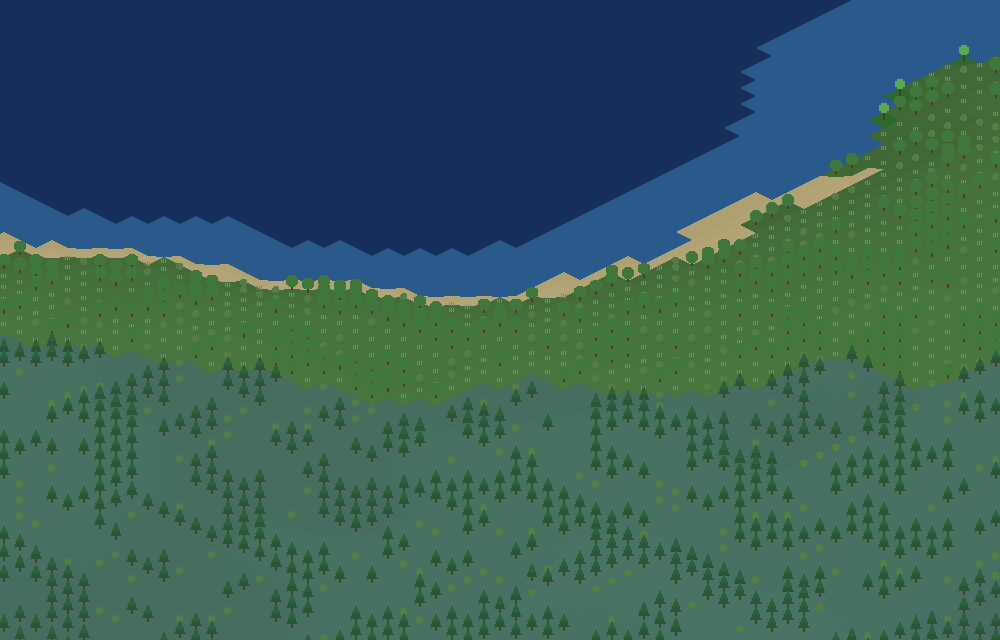
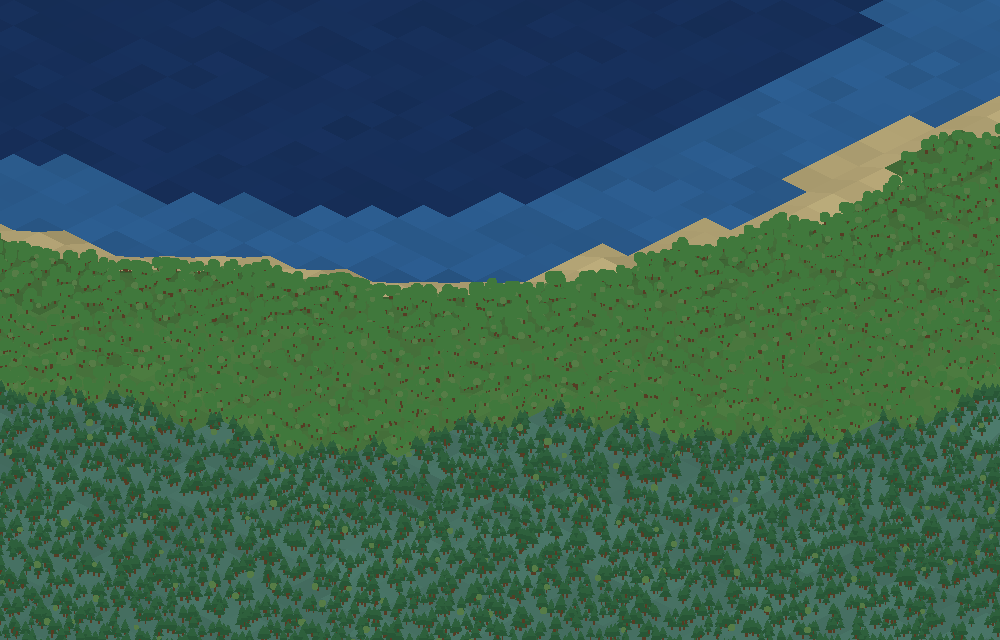
Bigger tiles and AoE2-style multi-tree scatter
- Doubled isometric tile size (64x32, height step 14).
- Vegetation is now scattered: each tile places up to ~12 individual plants at
  randomized, deterministic positions within its quad, count driven by biome and
  a new Tile.VegetationDensity field, so forests read as many trees rather than
  one sprite per tile. Deterministic per-tile XorShift RNG; plants level-of-detail
  to a dot when zoomed far out.
- Default camera zoom eased to 0.8 for the larger tiles.

Claude-Session: https://claude.ai/code/session_01TLhPVNgUgZYAKeC4oWsobL

diff --git a/src/Skippy.Core/Worlds/Rendering/WorldRenderer.cs b/src/Skippy.Core/Worlds/Rendering/WorldRenderer.cs
@@ -34,7 +34,16 @@ public sealed class WorldRenderer
     {
         public readonly Vector2 Pos;
         public readonly Vegetation Veg;
-        public VegItem(Vector2 pos, Vegetation veg) { Pos = pos; Veg = veg; }
+        public readonly float Scale;
+        public VegItem(Vector2 pos, Vegetation veg, float scale) { Pos = pos; Veg = veg; Scale = scale; }
+    }
+
+    /// <summary>Deterministic per-tile RNG for scattering plants (no heap allocation).</summary>
+    private struct XorShift
+    {
+        private uint _s;
+        public XorShift(uint seed) { _s = seed == 0 ? 1u : seed; }
+        public float Next() { _s ^= _s << 13; _s ^= _s >> 17; _s ^= _s << 5; return (_s & 0xFFFFFF) / 16777216f; }
     }
 
     public WorldRenderer(GraphicsDevice gd)
@@ -119,8 +128,7 @@ public sealed class WorldRenderer
                 PushTri(a, b, c, col);
                 PushTri(a, c, d, col);
 
-                if (tile.Vegetation != Vegetation.None)
-                    _veg.Add(new VegItem((a + b + c + d) * 0.25f, tile.Vegetation));
+                AppendScatter(tile, a, b, c, d, tx, ty);
             }
         }
 
@@ -143,9 +151,53 @@ public sealed class WorldRenderer
         // ---- vegetation pass (sprites) ----
         sb.Begin(SpriteSortMode.Deferred, BlendState.AlphaBlend, SamplerState.PointClamp);
         foreach (VegItem item in _veg)
-            DrawVegetation(sb, item.Pos, zoom, item.Veg);
+            DrawVegetation(sb, item.Pos, zoom * item.Scale, item.Veg);
         sb.End();
     }
+
+    /// <summary>
+    /// AoE2-style vegetation: a tile scatters many individual plants at randomized,
+    /// deterministic positions within its quad (dense forests, sparse savanna),
+    /// their count driven by biome and the tile's vegetation-density field.
+    /// </summary>
+    private void AppendScatter(in Tile tile, Vector2 a, Vector2 b, Vector2 c, Vector2 d, int tx, int ty)
+    {
+        var rng = new XorShift((uint)((tx * 73856093) ^ (ty * 19349663) ^ 0x9e37));
+        float dens = tile.VegetationDensity;
+
+        void Add(Vegetation kind, int n)
+        {
+            if (n > 12) n = 12;
+            for (int i = 0; i < n; i++)
+            {
+                float u = 0.14f + 0.72f * rng.Next();
+                float v = 0.12f + 0.76f * rng.Next();
+                float s = 0.8f + 0.5f * rng.Next();
+                _veg.Add(new VegItem(Bilerp(a, b, c, d, u, v), kind, s));
+            }
+        }
+
+        switch (tile.Biome)
+        {
+            case Biome.TemperateForest: Add(Vegetation.BroadleafTree, 5 + Ri(dens * 6)); Add(Vegetation.Bush, Ri(dens * 2)); break;
+            case Biome.Taiga: Add(Vegetation.PineTree, 5 + Ri(dens * 6)); if (rng.Next() > 0.7f) Add(Vegetation.Bush, 1); break;
+            case Biome.Jungle: Add(Vegetation.PalmTree, 6 + Ri(dens * 6)); Add(Vegetation.Bush, 1 + Ri(dens * 2)); break;
+            case Biome.Grassland:
+                if (dens > 0.5f) Add(Vegetation.BroadleafTree, 1 + Ri((dens - 0.5f) * 6));
+                if (dens > 0.35f && rng.Next() > 0.5f) Add(Vegetation.Bush, 1);
+                break;
+            case Biome.Savanna: if (dens > 0.55f) Add(Vegetation.BroadleafTree, dens > 0.8f ? 2 : 1); break;
+            case Biome.Swamp: Add(Vegetation.Bush, 1 + Ri(dens * 3)); if (dens > 0.6f) Add(Vegetation.BroadleafTree, 1); break;
+            case Biome.Tundra: if (dens > 0.6f || rng.Next() > 0.75f) Add(Vegetation.Bush, 1); break;
+            case Biome.Desert: if (dens > 0.7f) Add(Vegetation.Cactus, dens > 0.88f ? 2 : 1); break;
+            case Biome.Rock: if (rng.Next() > 0.6f) Add(Vegetation.Rock, rng.Next() > 0.6f ? 2 : 1); break;
+        }
+    }
+
+    private static int Ri(float x) => (int)MathF.Round(x);
+
+    private static Vector2 Bilerp(Vector2 a, Vector2 b, Vector2 c, Vector2 d, float u, float v)
+        => Vector2.Lerp(Vector2.Lerp(a, b, u), Vector2.Lerp(d, c, u), v);
 
     private void PushTri(Vector2 p0, Vector2 p1, Vector2 p2, Color color)
     {
@@ -158,6 +210,22 @@ public sealed class WorldRenderer
 
     private void DrawVegetation(SpriteBatch sb, Vector2 at, float zoom, Vegetation veg)
     {
+        // Far zoom: a cheap dot keeps big, plant-dense views fast.
+        if (zoom < 0.35f)
+        {
+            Color lc = veg switch
+            {
+                Vegetation.PineTree => new Color(46, 96, 60),
+                Vegetation.PalmTree => new Color(90, 168, 84),
+                Vegetation.BroadleafTree or Vegetation.Bush => new Color(64, 120, 60),
+                Vegetation.Cactus => new Color(80, 124, 80),
+                Vegetation.Rock => new Color(120, 116, 112),
+                _ => new Color(96, 140, 74),
+            };
+            Disc(sb, at - new Vector2(0f, 2f * zoom), MathF.Max(1.3f, 2.4f * zoom), lc);
+            return;
+        }
+
         switch (veg)
         {
             case Vegetation.GrassTuft:

diff --git a/src/Skippy.Core/Worlds/Generation/DefaultWorldGenerator.cs b/src/Skippy.Core/Worlds/Generation/DefaultWorldGenerator.cs
@@ -65,6 +65,8 @@ public sealed class DefaultWorldGenerator : IWorldGenerator
                     Moisture = moisture,
                     Level = QuantizeLevel(h),
                     Biome = BiomeClassifier.Classify(h, temperature, moisture),
+                    // Low-frequency clumping field: how densely this tile is planted.
+                    VegetationDensity = _vegetation.Sample(wx * 0.06f, wy * 0.06f) * 0.5f + 0.5f,
                 };
                 tile.Vegetation = VegetationPicker.Pick(tile, _vegetation, wx, wy);
 

diff --git a/src/Skippy.Core/Worlds/Rendering/Iso.cs b/src/Skippy.Core/Worlds/Rendering/Iso.cs
@@ -8,9 +8,9 @@ namespace Skippy.Core.Worlds.Rendering;
 /// </summary>
 public static class Iso
 {
-    public const int TileWidth = 32;
-    public const int TileHeight = 16;
-    public const int HeightStep = 7;
+    public const int TileWidth = 64;
+    public const int TileHeight = 32;
+    public const int HeightStep = 14;
 
     /// <summary>World tile (+ elevation level) → iso-space pixel (center of the diamond top).</summary>
     public static Vector2 TileToIso(float tileX, float tileY, float level) => new(

diff --git a/src/Skippy.Core/Worlds/Tile.cs b/src/Skippy.Core/Worlds/Tile.cs
@@ -51,6 +51,9 @@ public struct Tile
     /// <summary>Moisture / wetness 0..1.</summary>
     public float Moisture;
 
+    /// <summary>Vegetation clumping field 0..1 — drives how many plants a tile scatters.</summary>
+    public float VegetationDensity;
+
     public Biome Biome;
     public Vegetation Vegetation;
 

diff --git a/src/Skippy.Core/Worlds/Rendering/Camera.cs b/src/Skippy.Core/Worlds/Rendering/Camera.cs
@@ -12,7 +12,7 @@ public sealed class Camera
     /// <summary>Point the view is centered on, in world-tile coordinates.</summary>
     public Vector2 FocusTile;
 
-    public float Zoom = 1.0f;
+    public float Zoom = 0.8f;
 
     public const float MinZoom = 0.4f;
     public const float MaxZoom = 4f;

diff --git a/docs/WORLD.md b/docs/WORLD.md
@@ -86,10 +86,13 @@ Tune the thresholds in `BiomeClassifier`, and the sea/beach/snow lines in
 
 ### Vegetation follows climate
 
-`VegetationPicker` chooses per-tile vegetation from the biome plus a low-frequency
-density field (for clumping) and a per-tile hash (for fine variation): dense
-broadleaf/pine forests, scattered savanna trees, desert cactus, tundra shrubs, and
-so on. Water and beaches stay clear.
+Each tile carries a low-frequency **vegetation-density** field (its clumping
+value). At render time this drives an **Age-of-Empires-II-style scatter**: a tile
+places *many* individual plants (up to ~12) at randomized, deterministic
+positions within its quad — dense broadleaf/pine forests, scattered savanna
+trees, desert cactus, tundra shrubs — rather than one sprite per tile. Species
+come from the biome; water and beaches stay clear. (`VegetationPicker` still
+computes a single representative type per tile, handy for gameplay queries.)
 
 ## Isometric rendering
 
